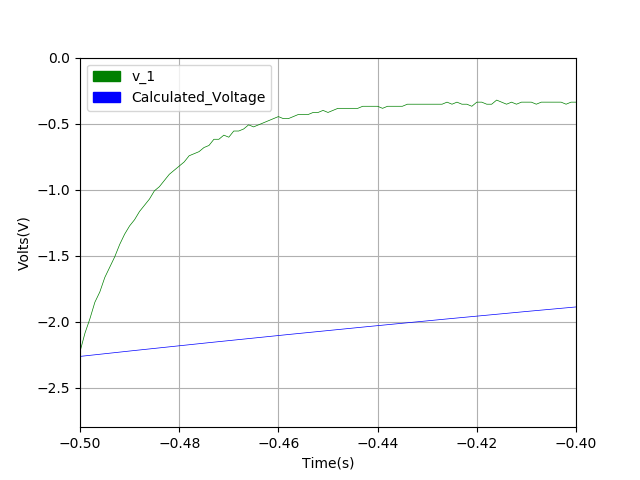
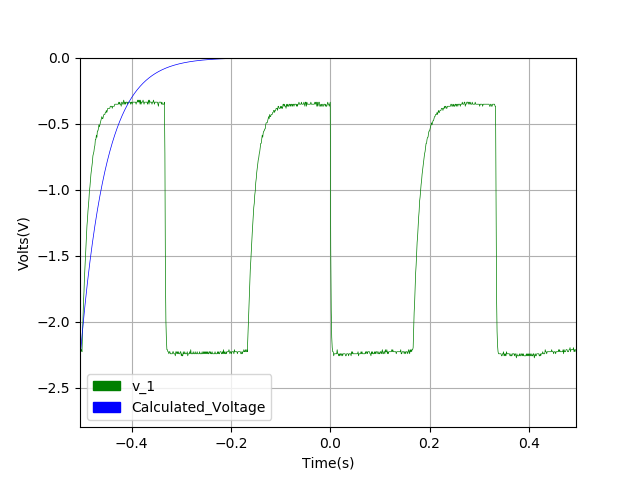
Added Graphs and DHO
Added damped harmonic oscillator Q-value finder

diff --git a/data/AnalogComputer.py b/data/AnalogComputer.py
@@ -11,6 +11,9 @@ import shutil
 import scipy.signal as sc
 import scipy.optimize as opt
 import scipy.interpolate as si
+from scipy.optimize import leastsq
+from scipy.stats import norm
+from scipy.optimize import curve_fit
 import matplotlib.pyplot as plt
 import matplotlib.patches as mpatches
 import os
@@ -90,13 +93,16 @@ def boot_plots(x, y_s, labels, line_width = None, x_range = None, y_range = None
     plt.grid()
     return axes
 
+def gaus(x,a,x0,sigma):
+    return a*np.exp(-(x-x0)**2/(2*sigma**2))
+
 if __name__ == '__main__':
     summing = False
-    differentiate = True
+    differentiate = False
     intergrate = False
     exponential = False
     HO = False
-    DHO = False
+    DHO = True
 
     scope_number = 0
     filename = "scope_" + str(scope_number) +".csv"
@@ -191,9 +197,11 @@ if __name__ == '__main__':
             R_pot = cof[scope_number-26]*10**3
             C = C_2
 
-            Beta = (R_pot / (R_pot + Rf))
+            #Beta = (R_pot / (R_pot + Rf))
 
+            Beta = R_pot/R_0
             alpha = (Beta/((Rf+R_pot)*C))
+
             time, v_1, clock, v_0 = findDataSum("scope_%s.csv" % scope_number)
 
             V = [-V_0*np.exp(-alpha*(x + abs(np.min(time)))) for x in time]
@@ -205,11 +213,13 @@ if __name__ == '__main__':
             plt.savefig(str(save_dir.joinpath('scope_%sraw.png' % scope_number)))
             plt.close()
 
-            boot_plots(time, [v_1, derV], ['v_1', 'Calculated'], x_range=[-.5, -.4], y_range=[-2.8, 0])
+            boot_plots(time, [v_1, derV], ['v_1', 'Calculated'], y_range=[-2.8, 0])
+            #x_range=[-.5, -.4]
             plt.savefig(str(save_dir.joinpath('scope_%s_calc.png' % scope_number)))
             plt.close()
 
-            boot_plots(time, [v_1, V], ['v_1', 'Calculated_Voltage'], x_range=[-.5, -.4], y_range=[-2.8, 0])
+            #x_range=[-.5, -.4]
+            boot_plots(time, [v_1, V], ['v_1', 'Calculated_Voltage'], y_range=[-2.8, 0])
             plt.savefig(str(save_dir.joinpath('scope_%s_calc.png' % scope_number)))
             plt.close()
     
@@ -242,4 +252,46 @@ if __name__ == '__main__':
             boot_plots(time, [a, b, c, d], ['calc_a', 'calc_b', 'calc_c', 'calc_d'], x_range=[-4, -2])
             plt.savefig(str(save_dir.joinpath('scope_%scalc.png' % scope_number)))
             plt.close()
+    if DHO:
+        save_dir = graphs_dir.joinpath('DHO')
+        shutil.rmtree(save_dir, ignore_errors=True)  # Avoiding errors if folder already is gone
+        save_dir.mkdir(parents=True)
+        freq = [4.9, 10, 12, 14, 16, 18, 20, 25, 50]
+        amplitude_list = []
+        for scope_number in range(38, 47):
+            time, v_1, v_2, v_3, v_4 = findDataDamped("scope_%s.csv" % scope_number)
+
+            data = v_2[400:600]
+            data_mid, data_max, data_min = np.median(data), np.max(np.sort(data)[:len(v_2)-20]), np.min(np.sort(data)[20:])
+            amplitude = ( np.abs(data_mid - data_max) + np.abs(data_mid - data_min) )/2  # sketchy way to get amplitude without fitting data
+            amplitude_list.append(amplitude)
+
+            boot_plots(time, [v_1, v_2, v_3, v_4], ['a', 'b', 'c', 'd'])
+            plt.savefig(str(save_dir.joinpath('scope_%sraw.png' % scope_number)))
+            plt.close()
+
+            boot_plots(time, [v_2], ['b'], colours=['blue'])
+            plt.savefig(str(save_dir.joinpath('scope_%sv_2.png' % scope_number)))
+            plt.close()
+
+        plt.scatter(freq, amplitude_list)
+        y = np.array(amplitude_list)
+        x = np.array(freq)
+        n = len(x)  # the number of data
+        mean = sum(x * y) / n  # note this correction
+        sigma = sum(y * (x - mean) ** 2) / n  # note this correction
+        popt, pcov = curve_fit(gaus, x, y, p0=[1, mean, sigma])
+
+        FWHM = 2.355 * np.abs(popt[2])
+
+        plt.plot(x, y, 'b+:', label='data')
+        x_fill = np.linspace(0, 50, 100)
+        #plt.plot(x, gaus(x_fill, *popt), 'ro:', label='fit')
+        plt.plot(x_fill, gaus(x_fill, *popt), color='red', label='fit')
+        plt.legend()
+        plt.title('Peak = %6.2f FWHM = %6.2f' % (popt[1], FWHM))
+        plt.xlabel('Frequency (Hz)')
+        plt.ylabel('Amplitude (V)')
+        plt.savefig(str(save_dir.joinpath('q_value.png')))
+
 
